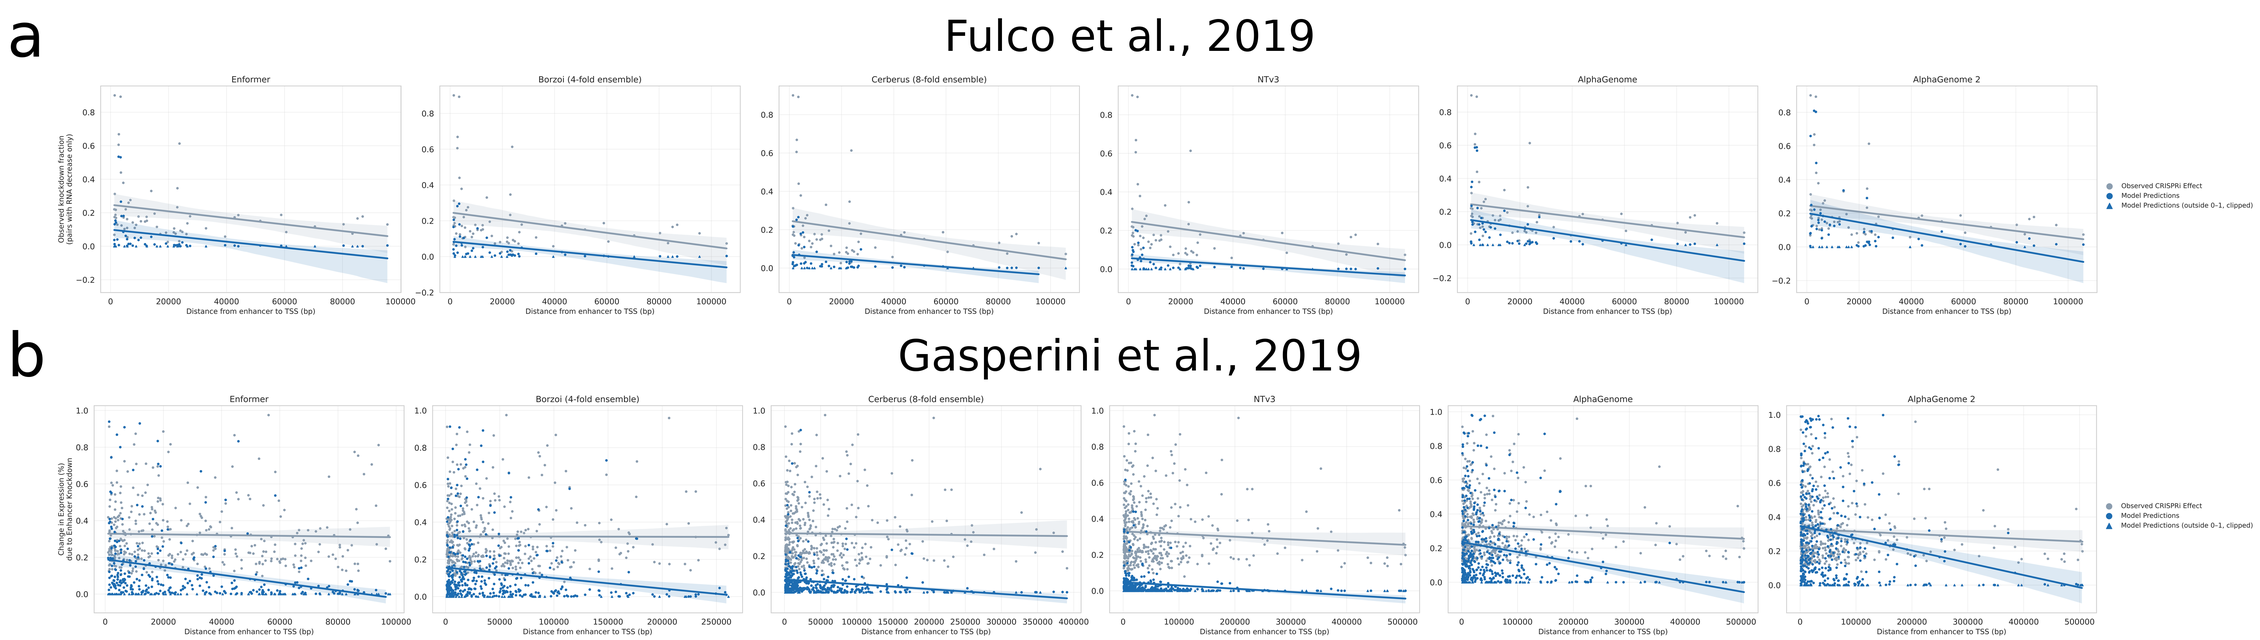
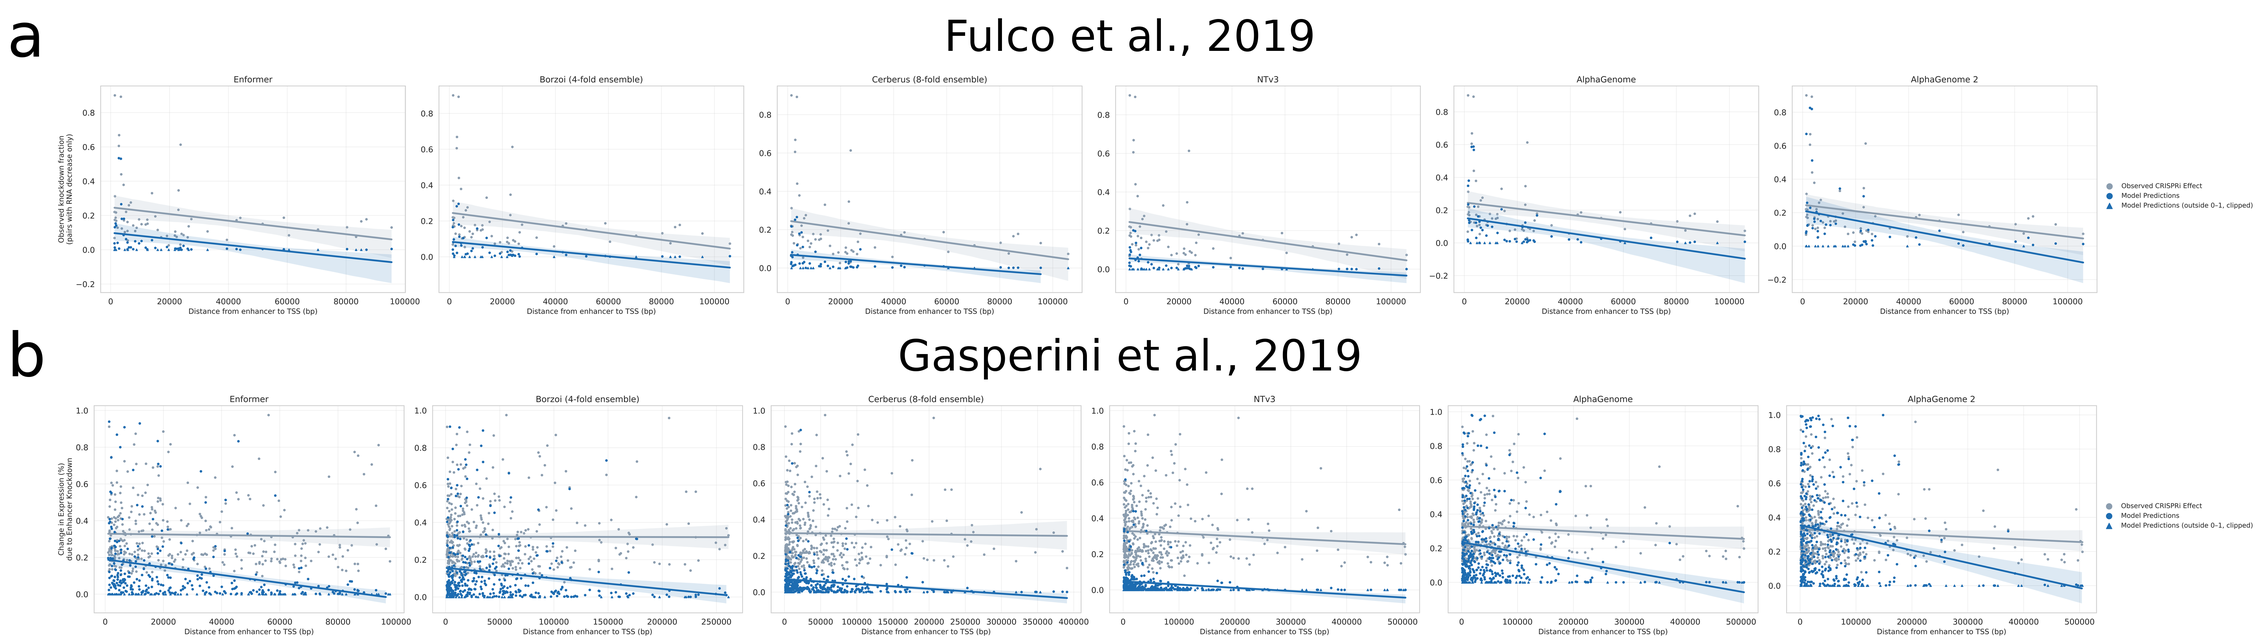
2026-007: read AlphaGenome 2 from measured K562 tracks only (revision 6)
The AlphaGenome API returns 12 K562 RNA-seq tracks, 3 of them imputed by the
model for assays never measured in K562; revision 5 averaged 8 strand-matched
tracks including all 3. AlphaGenome 2 now uses the 5 strand-matched measured
tracks. Correlations move by at most 0.01 (Fulco 0.75/0.50, Gasperini
0.54/0.52; vs AlphaGenome drho +0.07 [0.02, 0.12]); conclusions unchanged.
Updates the table, Figures 2, 3 and 5, AlphaGenome 2's numbers in the text, and
the Methods track description; the Fulco Pearson lead over Borzoi is now called
borderline (CI 0.00-0.26).

diff --git a/content/blogs/2026-007/index.md b/content/blogs/2026-007/index.md
@@ -25,7 +25,7 @@ audience: ["technical"]
 labs: ["Koo lab"]
 
 status: "accepted"
-revision: 5
+revision: 6
 
 date_submitted: 2026-05-21
 date_accepted: 2026-06-25
@@ -49,6 +49,9 @@ revision_history:
   - version: 5
     date: 2026-11-12
     notes: "Added Google DeepMind's AlphaGenome 2 (released 11 November 2026) as a sixth model, queried through the hosted AlphaGenome API. Updates the results table, Figures 2, 3 and 5, the ensemble result, and related text, with a note on its track count and a check of the distal shortfall against enhancer accessibility (K562 DNase-seq and H3K27ac). Retitles the scoring section. Also corrects the Methods description of the AlphaGenome readout, which averages the 3 K562 RNA-Seq tracks matching the gene's strand, not all 5. Enformer, Borzoi, Cerberus, NTv3 and AlphaGenome numbers are unchanged."
+  - version: 6
+    date: 2026-11-13
+    notes: "AlphaGenome 2 is now read from the 5 strand-matched K562 RNA-Seq tracks that were measured in K562, leaving out 3 tracks the model imputes for assays never measured there; revision 5 averaged all 8. Its correlations change by at most 0.01 and the conclusions are unchanged. Updates the results table, Figures 2, 3 and 5, and AlphaGenome 2's numbers in the text. Other models' numbers are unchanged."
 ---
 
 {{< summary >}}
@@ -56,9 +59,9 @@ We benchmark six sequence-to-function genomic deep learning models — [Enformer
 
 Four things stand out:
 
-* **AlphaGenome 2 leads on the larger screen**, Gasperini et al. (Pearson's r = 0.53, against 0.45 for AlphaGenome, the next best). It is a clear but incremental improvement, holding out to about 100 kb from the TSS, with no gain beyond. On the smaller Fulco et al. screen, AlphaGenome 2 (0.75), Cerberus (0.70) and AlphaGenome (0.67) are statistically tied.
+* **AlphaGenome 2 leads on the larger screen**, Gasperini et al. (Pearson's r = 0.54, against 0.45 for AlphaGenome, the next best). It is a clear but incremental improvement, holding out to about 100 kb from the TSS, with no gain beyond. On the smaller Fulco et al. screen, AlphaGenome 2 (0.75), Cerberus (0.70) and AlphaGenome (0.67) are statistically tied.
 * **Cerberus, Borzoi's successor, doesn't improve on it overall.** It is worse for enhancers near the promoter on the larger screen, and level or slightly better further out.
-* **All six models systematically underpredict knockdown magnitude**, and the gap to experimental measurements widens with enhancer-to-TSS distance. AlphaGenome 2 comes closest: on the larger screen its predictions are about 90% of the measured knockdowns on average out to 100 kb from the TSS, but under half beyond that — distal cis-regulatory element (CRE) effects remain difficult to predict.
+* **All six models systematically underpredict knockdown magnitude**, and the gap to experimental measurements widens with enhancer-to-TSS distance. AlphaGenome 2 comes closest: on the larger screen its predictions are over 90% of the measured knockdowns on average out to 100 kb from the TSS, but under half beyond that — distal cis-regulatory element (CRE) effects remain difficult to predict.
 * **AlphaGenome's RNA-Seq head (with GENCODE-exon aggregation) beats its CAGE head** on the larger screen — which output track you choose matters.
 
 **Code**: [seq2func_crispri_eval](https://github.com/Al-Murphy/seq2func_crispri_eval)
@@ -100,7 +103,7 @@ For each pair, the procedure is:
 1. Build a sequence window of the model's native context (196 kb for Enformer, 524 kb for Borzoi, 786 kb for Cerberus, 1 Mb for NTv3, AlphaGenome, and AlphaGenome 2), centred on the gene's TSS.
 2. Score the wild-type window.
 3. Dinucleotide-shuffle a 2 kb slice covering the enhancer. Repeat N = 50 times, average the model's prediction.
-4. Aggregate the model's K562 output. Enformer has no RNA-Seq output, so it is read from CAGE tracks in a TSS-centred 640 bp window (5 × 128 bp bins). The other five are read from RNA-Seq over the target gene's GENCODE exons — AlphaGenome's preferred RNA-Seq score, and how Calico scores genes with Borzoi and Cerberus. NTv3, AlphaGenome, and AlphaGenome 2 take the mean signal across the exons, averaged over K562 RNA-Seq tracks: all 86 for NTv3, and for the two AlphaGenomes the tracks that match the gene's strand (3 of 5 for AlphaGenome, 8 of 12 for AlphaGenome 2). Borzoi and Cerberus sum the 32 bp output bins that overlap the exons, on the 71 of their 94 K562 RNA-Seq tracks that match the gene's strand, after converting the output back to coverage with Calico's inverse transform.
+4. Aggregate the model's K562 output. Enformer has no RNA-Seq output, so it is read from CAGE tracks in a TSS-centred 640 bp window (5 × 128 bp bins). The other five are read from RNA-Seq over the target gene's GENCODE exons — AlphaGenome's preferred RNA-Seq score, and how Calico scores genes with Borzoi and Cerberus. NTv3, AlphaGenome, and AlphaGenome 2 take the mean signal across the exons, averaged over K562 RNA-Seq tracks: all 86 for NTv3, and for the two AlphaGenomes the tracks that match the gene's strand (3 of 5 for AlphaGenome; for AlphaGenome 2, 5 of the 9 tracks measured in K562, leaving out 3 more that the model imputes). Borzoi and Cerberus sum the 32 bp output bins that overlap the exons, on the 71 of their 94 K562 RNA-Seq tracks that match the gene's strand, after converting the output back to coverage with Calico's inverse transform.
 5. Score `pred_delta = (WT − mean(shuffle)) / WT` per pair and correlate with the measured fractional knockdown.
 
 > _Side note_: This is a marginalisation procedure — by averaging predictions across many randomised backgrounds in which the enhancer's motif content is destroyed, we isolate the enhancer's contribution from the surrounding sequence context (the same idea underlies Global Importance Analysis (GIA); [Koo et al., 2021](https://pmc.ncbi.nlm.nih.gov/articles/PMC8118286/)). The background choice matters: N-replacement is out-of-distribution for the model and can produce strange predictions; drawing random bases changes local G+C content, biasing on composition rather than motif loss; even a plain base shuffle destroys dinucleotide frequencies like CpG counts, themselves a learned regulatory signal. Dinucleotide shuffling (Altschul–Erickson) destroys motif content while keeping both single-base and dinucleotide composition intact — the standard background for in-silico CRISPRi.
@@ -126,21 +129,21 @@ The headline numbers (left two columns: each model on every pair its own recepti
 | Cerberus      | 0.70 / **0.59**  | 0.34 / 0.31      | 0.70 / **0.58**     | 0.35 / 0.33             |
 | NTv3          | 0.51 / 0.27      | 0.29 / 0.29      | 0.51 / 0.26         | 0.31 / 0.30             |
 | AlphaGenome   | 0.67 / 0.54      | 0.45 / 0.45      | 0.67 / 0.54         | 0.46 / 0.48             |
-| AlphaGenome 2 | **0.75** / 0.51  | **0.53 / 0.52**  | **0.75** / 0.51     | **0.58 / 0.57**         |
+| AlphaGenome 2 | **0.75** / 0.50  | **0.54 / 0.52**  | **0.75** / 0.50     | **0.59 / 0.58**         |
 
 Values are Pearson's _r_ / Spearman's ρ. N pairs in the "full" columns varies by model because larger-context models score extra distal pairs that Enformer can't see (Fulco N = 62–63, Gasperini N = 352–438); in the "Enformer RF (Receptive Field)" columns N is uniform (Fulco et al. N = 62, Gasperini et al. N = 352), restricted to the enhancers Enformer predicts.
 
-The matched-RF columns rule out the simple "they just see more sequence" explanation for the leaders: Fulco et al. barely moves (only one distal pair drops), and on Gasperini et al. the rankings are unchanged apart from NTv3 and Enformer, which swap fifth and sixth on Pearson's r (0.29 vs. 0.30, then 0.31 vs. 0.30) — both AlphaGenomes even nudge up (AlphaGenome's Pearson 0.45 → 0.46 and Spearman 0.45 → 0.48; AlphaGenome 2's 0.53 → 0.58 and 0.52 → 0.57).
+The matched-RF columns rule out the simple "they just see more sequence" explanation for the leaders: Fulco et al. barely moves (only one distal pair drops), and on Gasperini et al. the rankings are unchanged apart from NTv3 and Enformer, which swap fifth and sixth on Pearson's r (0.29 vs. 0.30, then 0.31 vs. 0.30) — both AlphaGenomes even nudge up (AlphaGenome's Pearson 0.45 → 0.46 and Spearman 0.45 → 0.48; AlphaGenome 2's 0.54 → 0.59 and 0.52 → 0.58).
 
 A few takeaways:
 
-* **AlphaGenome 2 leads on Gasperini et al.**, the larger screen (Pearson's r 0.53, against 0.45 for AlphaGenome and 0.37 for Borzoi). On the same 438 pairs it beats AlphaGenome significantly (Spearman's ρ higher by 0.06, 95% CI 0.01–0.11; Pearson's r higher by 0.09, CI 0.03–0.15; paired bootstrap), a gain about the size of AlphaGenome's own lead over Borzoi. The gain holds out to about 100 kb from the TSS (ρ higher by 0.09, CI 0.01–0.19, n = 180, within 20 kb; by 0.08, CI 0.01–0.15, n = 175, at 20–100 kb) and disappears beyond it (0.00, CI −0.12 to +0.12, n = 83). AlphaGenome in turn leads the rest by a clear margin. On Fulco et al., AlphaGenome 2 (0.75), Cerberus (0.70), AlphaGenome (0.67) and Borzoi (0.64) are essentially tied — only AlphaGenome 2's Pearson lead over Borzoi clears the noise, and only just (r higher by 0.11, CI 0.005–0.26; on Spearman's ρ all four are level). See the small-sample caveat in [Limitations](#limitations).
-* **Context length isn't the explanation.** NTv3 has a 1 Mb context, the same as both AlphaGenomes, but trails them on both screens (matched-RF Pearson's r 0.51 vs. 0.67 and 0.75 on Fulco et al., 0.31 vs. 0.46 and 0.58 on Gasperini et al.). Enformer, despite its shorter 196 kb context (which excludes ~20% of Gasperini et al. pairs), is level with NTv3 on the pairs it can see (Pearson's r 0.30) and not far behind Borzoi (0.37). Nor does Cerberus's longer context (786 kb against 524 kb) lift it above Borzoi on Gasperini et al. (0.34 vs. 0.37).
+* **AlphaGenome 2 leads on Gasperini et al.**, the larger screen (Pearson's r 0.54, against 0.45 for AlphaGenome and 0.37 for Borzoi). On the same 438 pairs it beats AlphaGenome significantly (Spearman's ρ higher by 0.07, 95% CI 0.02–0.12; Pearson's r higher by 0.09, CI 0.04–0.15; paired bootstrap), a gain about the size of AlphaGenome's own lead over Borzoi. The gain holds out to about 100 kb from the TSS (ρ higher by 0.10, CI 0.01–0.19, n = 180, within 20 kb; by 0.09, CI 0.02–0.16, n = 175, at 20–100 kb) and disappears beyond it (0.00, CI −0.11 to +0.12, n = 83). AlphaGenome in turn leads the rest by a clear margin. On Fulco et al., AlphaGenome 2 (0.75), Cerberus (0.70), AlphaGenome (0.67) and Borzoi (0.64) are essentially tied — AlphaGenome 2's Pearson lead over Borzoi is borderline (r higher by 0.11, CI 0.00–0.26), and on Spearman's ρ all four are level. See the small-sample caveat in [Limitations](#limitations).
+* **Context length isn't the explanation.** NTv3 has a 1 Mb context, the same as both AlphaGenomes, but trails them on both screens (matched-RF Pearson's r 0.51 vs. 0.67 and 0.75 on Fulco et al., 0.31 vs. 0.46 and 0.59 on Gasperini et al.). Enformer, despite its shorter 196 kb context (which excludes ~20% of Gasperini et al. pairs), is level with NTv3 on the pairs it can see (Pearson's r 0.30) and not far behind Borzoi (0.37). Nor does Cerberus's longer context (786 kb against 524 kb) lift it above Borzoi on Gasperini et al. (0.34 vs. 0.37).
 * **Cerberus is weaker near the promoter, level or better further out.** Against Borzoi, its predecessor, Cerberus ranks Gasperini et al.'s enhancers within 20 kb of the TSS worse (Spearman's ρ lower by 0.14, 95% CI 0.04–0.25, n = 180; paired bootstrap) and is level beyond 20 kb (ρ higher by 0.05, CI −0.04 to +0.14, n = 237). On Fulco et al. it is level within 20 kb and ahead beyond it (ρ higher by 0.29, CI +0.02 to +0.56), though on only 26 pairs. Across all pairs the two are level on both screens.
-* **On the same set of pairs, the AlphaGenomes still lead.** Of Gasperini et al.'s pairs, 21 fall within the AlphaGenomes' 1 Mb context but outside Borzoi's 524 kb — so they contribute to the AlphaGenomes' correlations but not Borzoi's (Note, all of the tested Fulco et al. pairs are in Borzoi's context). To make the comparison apples-to-apples, we restrict both to only the pairs Borzoi can also score: AlphaGenome's Pearson's r goes 0.45 → 0.44 and Spearman's ρ stays at 0.45; AlphaGenome 2's goes 0.53 → 0.54 and stays at 0.52 — giving essentially the same result.
-* **The Gasperini et al. ceiling is low across the board.** Even AlphaGenome 2 (Pearson's r 0.53) leaves substantial variance unexplained. Some of this is likely measurement-side: Gasperini et al.'s scaled screen uses a high-MOI single-cell pooled design (median 28 gRNAs per cell), and the statistical and trans-perturbation challenges of high-MOI screens are well-documented ([Barry et al., 2021](https://genomebiology.biomedcentral.com/articles/10.1186/s13059-021-02545-2)). Fulco et al.'s CRISPRi-FlowFISH targets one enhancer at a time with a bulk-population readout, which we'd expect to give more precise per-pair effect sizes. We can't separate measurement noise from model error from these correlations alone, so attributing the gap is interpretive — but it's at least consistent with the per-screen difference we see. Either way, the headline framing is that AlphaGenome and AlphaGenome 2 improve CRISPRi prediction but a large gap remains, especially for distal cis-regulatory elements (CREs).
+* **On the same set of pairs, the AlphaGenomes still lead.** Of Gasperini et al.'s pairs, 21 fall within the AlphaGenomes' 1 Mb context but outside Borzoi's 524 kb — so they contribute to the AlphaGenomes' correlations but not Borzoi's (Note, all of the tested Fulco et al. pairs are in Borzoi's context). To make the comparison apples-to-apples, we restrict both to only the pairs Borzoi can also score: AlphaGenome's Pearson's r goes 0.45 → 0.44 and Spearman's ρ stays at 0.45; AlphaGenome 2's stay at 0.54 and 0.52 — giving essentially the same result.
+* **The Gasperini et al. ceiling is low across the board.** Even AlphaGenome 2 (Pearson's r 0.54) leaves substantial variance unexplained. Some of this is likely measurement-side: Gasperini et al.'s scaled screen uses a high-MOI single-cell pooled design (median 28 gRNAs per cell), and the statistical and trans-perturbation challenges of high-MOI screens are well-documented ([Barry et al., 2021](https://genomebiology.biomedcentral.com/articles/10.1186/s13059-021-02545-2)). Fulco et al.'s CRISPRi-FlowFISH targets one enhancer at a time with a bulk-population readout, which we'd expect to give more precise per-pair effect sizes. We can't separate measurement noise from model error from these correlations alone, so attributing the gap is interpretive — but it's at least consistent with the per-screen difference we see. Either way, the headline framing is that AlphaGenome and AlphaGenome 2 improve CRISPRi prediction but a large gap remains, especially for distal cis-regulatory elements (CREs).
 
-> _Side note:_ AlphaGenome 2 returns 12 K562 RNA-Seq tracks to AlphaGenome's 5, so its score averages 8 strand-matched tracks rather than 3. That isn't what lifts it: restricted to the three tracks matching AlphaGenome's (polyA+ and total RNA-Seq on the gene's strand, plus unstranded polyA+), it scores the same on Gasperini et al. (Spearman's ρ 0.52), and seven of its eight tracks beat AlphaGenome on their own.
+> _Side note:_ AlphaGenome 2 has more K562 RNA-Seq tracks than AlphaGenome, so its score averages 5 strand-matched tracks rather than 3. That isn't what lifts it: restricted to the three tracks matching AlphaGenome's (polyA+ and total RNA-Seq on the gene's strand, plus unstranded polyA+), it scores the same on Gasperini et al. (Spearman's ρ 0.52), and four of its five tracks beat AlphaGenome on their own.
 
 ### Predictions shrink, knockdowns don't
 
@@ -150,10 +153,10 @@ Figure 3 plots observed and predicted effect against enhancer-to-TSS distance, t
 
 Two patterns stand out:
 
-* **Predictions are systematically smaller in magnitude than observed knockdowns.** Even where the rank ordering is right (good Spearman), the predicted effect sizes are compressed, most of all for NTv3 and then Cerberus: the lines fitted to their predicted vs. measured effects (Figure 2) have slopes of 0.12–0.13 and 0.17–0.25, against 0.26 or more for the other four. AlphaGenome 2 is the least compressed by far, with slopes of 0.79 and 0.87, against 0.53 and 0.57 for AlphaGenome.
-* **The gap grows with distance on Gasperini et al.** There the measured knockdowns barely change with distance, but Enformer's, Borzoi's and AlphaGenome's predictions fall towards zero, so their shortfall grows roughly 1.8- to 2.6-fold from the nearest pairs to the farthest. NTv3 falls short by a similar amount at every distance, because its predictions sit near zero throughout. Cerberus sits in between: it is already further short at the nearest pairs, and its shortfall grows about 1.3-fold. AlphaGenome 2 makes the pattern starkest: out to 100 kb its mean prediction is about 90% of the mean measured knockdown (about 60% for AlphaGenome), but beyond 100 kb it is under half (44%, against 28% for AlphaGenome). On Fulco et al., where the measured effects do decay with distance, the models capture some of that decay but less steeply than the data, most obviously NTv3 and then Cerberus; the two AlphaGenomes are the exception, decaying about as steeply as the data.
+* **Predictions are systematically smaller in magnitude than observed knockdowns.** Even where the rank ordering is right (good Spearman), the predicted effect sizes are compressed, most of all for NTv3 and then Cerberus: the lines fitted to their predicted vs. measured effects (Figure 2) have slopes of 0.12–0.13 and 0.17–0.25, against 0.26 or more for the other four. AlphaGenome 2 is the least compressed by far, with slopes of 0.81 and 0.89, against 0.53 and 0.57 for AlphaGenome.
+* **The gap grows with distance on Gasperini et al.** There the measured knockdowns barely change with distance, but Enformer's, Borzoi's and AlphaGenome's predictions fall towards zero, so their shortfall grows roughly 1.8- to 2.6-fold from the nearest pairs to the farthest. NTv3 falls short by a similar amount at every distance, because its predictions sit near zero throughout. Cerberus sits in between: it is already further short at the nearest pairs, and its shortfall grows about 1.3-fold. AlphaGenome 2 makes the pattern starkest: out to 100 kb its mean prediction is over 90% of the mean measured knockdown (about 60% for AlphaGenome), but beyond 100 kb it is under half (45%, against 28% for AlphaGenome). On Fulco et al., where the measured effects do decay with distance, the models capture some of that decay but less steeply than the data, most obviously NTv3 and then Cerberus; the two AlphaGenomes are the exception, decaying about as steeply as the data.
 
-**Is the distal shortfall just inaccessible enhancers?** AlphaGenome 2's [preprint](https://storage.googleapis.com/deepmind-media/DeepMind.com/Blog/alphagenome-2-deciphering-how-cells-read-dna-to-better-understand-disease/alphagenome-2.pdf) finds that much of the familiar drop in eQTL prediction with distance comes from variants outside accessible chromatin: inside accessible peaks, its sign and effect-size predictions hold up beyond 35 kb of the TSS. That can't explain the shortfall here, because these screens target accessible elements: 98% of Gasperini et al.'s enhancers (94% of Fulco et al.'s) overlap a K562 DNase-seq peak from [ENCODE](https://www.encodeproject.org/experiments/ENCSR000EOT/). Splitting Gasperini et al.'s enhancers at the median DNase signal instead, distance still shrinks the predictions for the more accessible half: beyond 35 kb, AlphaGenome 2's mean prediction is 0.82 of the mean measured knockdown, against 1.18 within 35 kb, while the measured knockdowns don't change (0.32 vs. 0.31). Every model shows the same drop. Accessibility adds a second, separate bias: at every distance, Borzoi, Cerberus and both AlphaGenomes predict larger effects for the more accessible half, although the measured knockdowns of the two halves are about the same size (0.30–0.34). Beyond 35 kb, AlphaGenome 2 predicts under a tenth of the measured effect for 53% of the less accessible enhancers, against 22% of the more accessible ones. Splitting on H3K27ac ([ENCODE](https://www.encodeproject.org/experiments/ENCSR000AKP/)) instead of DNase gives the same picture. So, to summarise, accessibility doesn't explain the distal shortfall: nearly all of these enhancers are accessible, the models underpredict distal effects even for the more accessible half, and, separately, they underpredict the less accessible half at every distance. (Fulco et al. has too few distal pairs to split this way.)
+**Is the distal shortfall just inaccessible enhancers?** AlphaGenome 2's [preprint](https://storage.googleapis.com/deepmind-media/DeepMind.com/Blog/alphagenome-2-deciphering-how-cells-read-dna-to-better-understand-disease/alphagenome-2.pdf) finds that much of the familiar drop in eQTL prediction with distance comes from variants outside accessible chromatin: inside accessible peaks, its sign and effect-size predictions hold up beyond 35 kb of the TSS. That can't explain the shortfall here, because these screens target accessible elements: 98% of Gasperini et al.'s enhancers (94% of Fulco et al.'s) overlap a K562 DNase-seq peak from [ENCODE](https://www.encodeproject.org/experiments/ENCSR000EOT/). Splitting Gasperini et al.'s enhancers at the median DNase signal instead, distance still shrinks the predictions for the more accessible half: beyond 35 kb, AlphaGenome 2's mean prediction is 0.84 of the mean measured knockdown, against 1.19 within 35 kb, while the measured knockdowns don't change (0.32 vs. 0.31). Every model shows the same drop. Accessibility adds a second, separate bias: at every distance, Borzoi, Cerberus and both AlphaGenomes predict larger effects for the more accessible half, although the measured knockdowns of the two halves are about the same size (0.30–0.34). Beyond 35 kb, AlphaGenome 2 predicts under a tenth of the measured effect for 52% of the less accessible enhancers, against 21% of the more accessible ones. Splitting on H3K27ac ([ENCODE](https://www.encodeproject.org/experiments/ENCSR000AKP/)) instead of DNase gives the same picture. So, to summarise, accessibility doesn't explain the distal shortfall: nearly all of these enhancers are accessible, the models underpredict distal effects even for the more accessible half, and, separately, they underpredict the less accessible half at every distance. (Fulco et al. has too few distal pairs to split this way.)
 
 A short aside: AlphaGenome's RNA-Seq head, aggregated as the mean signal across the target gene's GENCODE exons (their paper's preferred approach), beats AlphaGenome's CAGE head (we only compared heads for the original AlphaGenome) on Gasperini et al. (Pearson's r 0.45 vs. 0.39). On Fulco et al. the difference is small (0.67 vs. 0.66). So if you're benchmarking a new model on these screens, your output-aggregation choice should be considered carefully!
 
@@ -177,7 +180,7 @@ The headline benchmark (Figures 2–5) doesn't use TTA, so all six models are co
 
 ### Does ensembling help?
 
-On the matched-RF (Receptive Field) set used in the headline table, a simple equal-weight average of the six models' predictions doesn't beat the best single model. On Fulco it falls just short of the best single models, AlphaGenome 2 on Pearson's r (0.74 vs. 0.75) and Cerberus on Spearman's ρ (0.57 vs. 0.58), well inside the small-sample noise (see Limitations). On Gasperini, where AlphaGenome 2 dominates, averaging in the weaker models clearly dilutes the predictive signal (Pearson's r 0.51 vs. 0.58; Spearman's ρ 0.54 vs. 0.57). Equal-weight ensembling, in other words, gains nothing over the best single model here.
+On the matched-RF (Receptive Field) set used in the headline table, a simple equal-weight average of the six models' predictions doesn't beat the best single model. On Fulco it falls just short of the best single models, AlphaGenome 2 on Pearson's r (0.74 vs. 0.75) and Cerberus on Spearman's ρ (0.57 vs. 0.58), well inside the small-sample noise (see Limitations). On Gasperini, where AlphaGenome 2 dominates, averaging in the weaker models clearly dilutes the predictive signal (Pearson's r 0.52 vs. 0.59; Spearman's ρ 0.54 vs. 0.58). Equal-weight ensembling, in other words, gains nothing over the best single model here.
 
 ---
 
